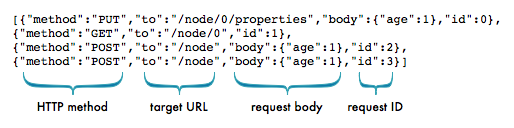
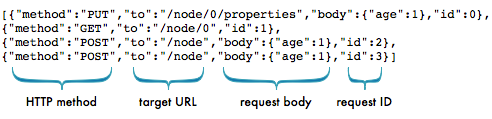
Minor fixes to the docs.

diff --git a/server/src/functionaltest/java/org/neo4j/server/rest/BatchOperationFunctionalTest.java b/server/src/functionaltest/java/org/neo4j/server/rest/BatchOperationFunctionalTest.java
@@ -94,11 +94,15 @@ public class BatchOperationFunctionalTest
      * 
      * Each job description should contain a +path+ attribute, with a value relative to the
      * data API root (so http://localhost/db/data/node becomes just /node), and
-     * a +method+ attribute containing HTTP verb to use. 
+     * a +method+ attribute containing HTTP verb to use.
      * 
      * Optionally you may provide a +body+ attribute, and an +id+ attribute to help you keep 
      * track of responses, although responses are guaranteed to be returned in the same 
      * order the job descriptions are received.
+     * 
+     * The following figure outlines the different parts of the job descriptions:
+     * 
+     * image::batch-request-api.png[]
      */
     @Documented
     @SuppressWarnings( "unchecked" )
